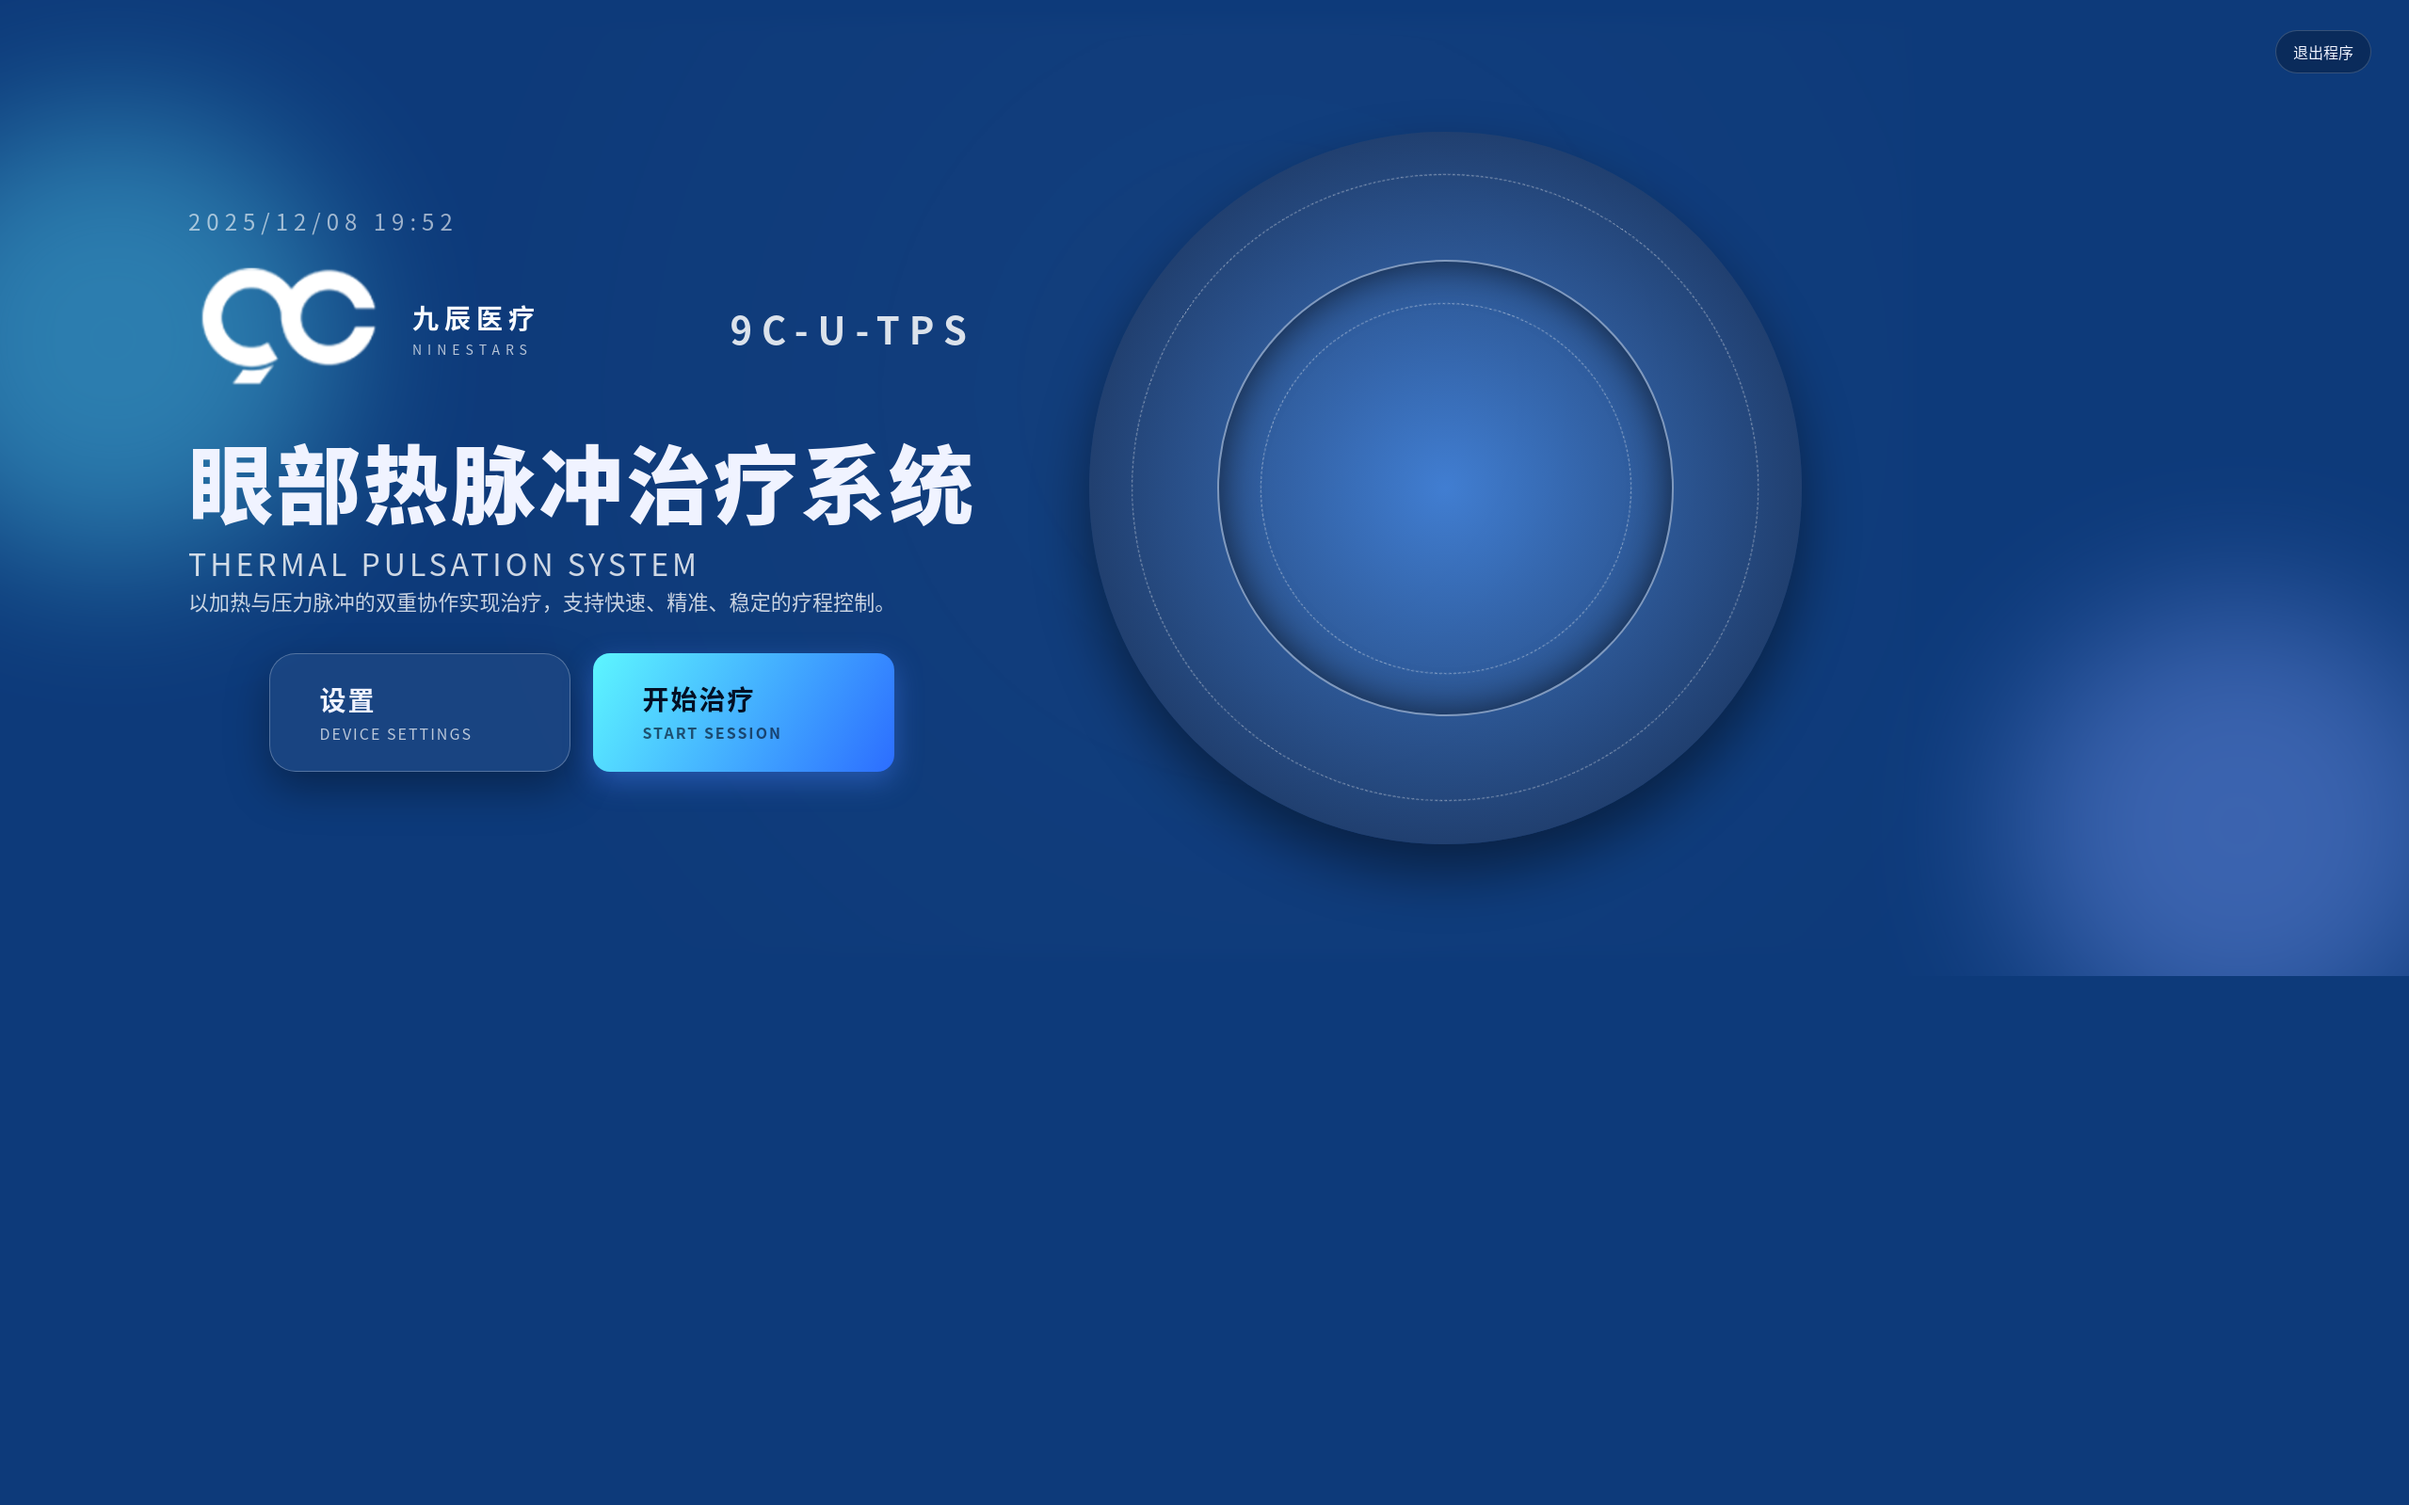
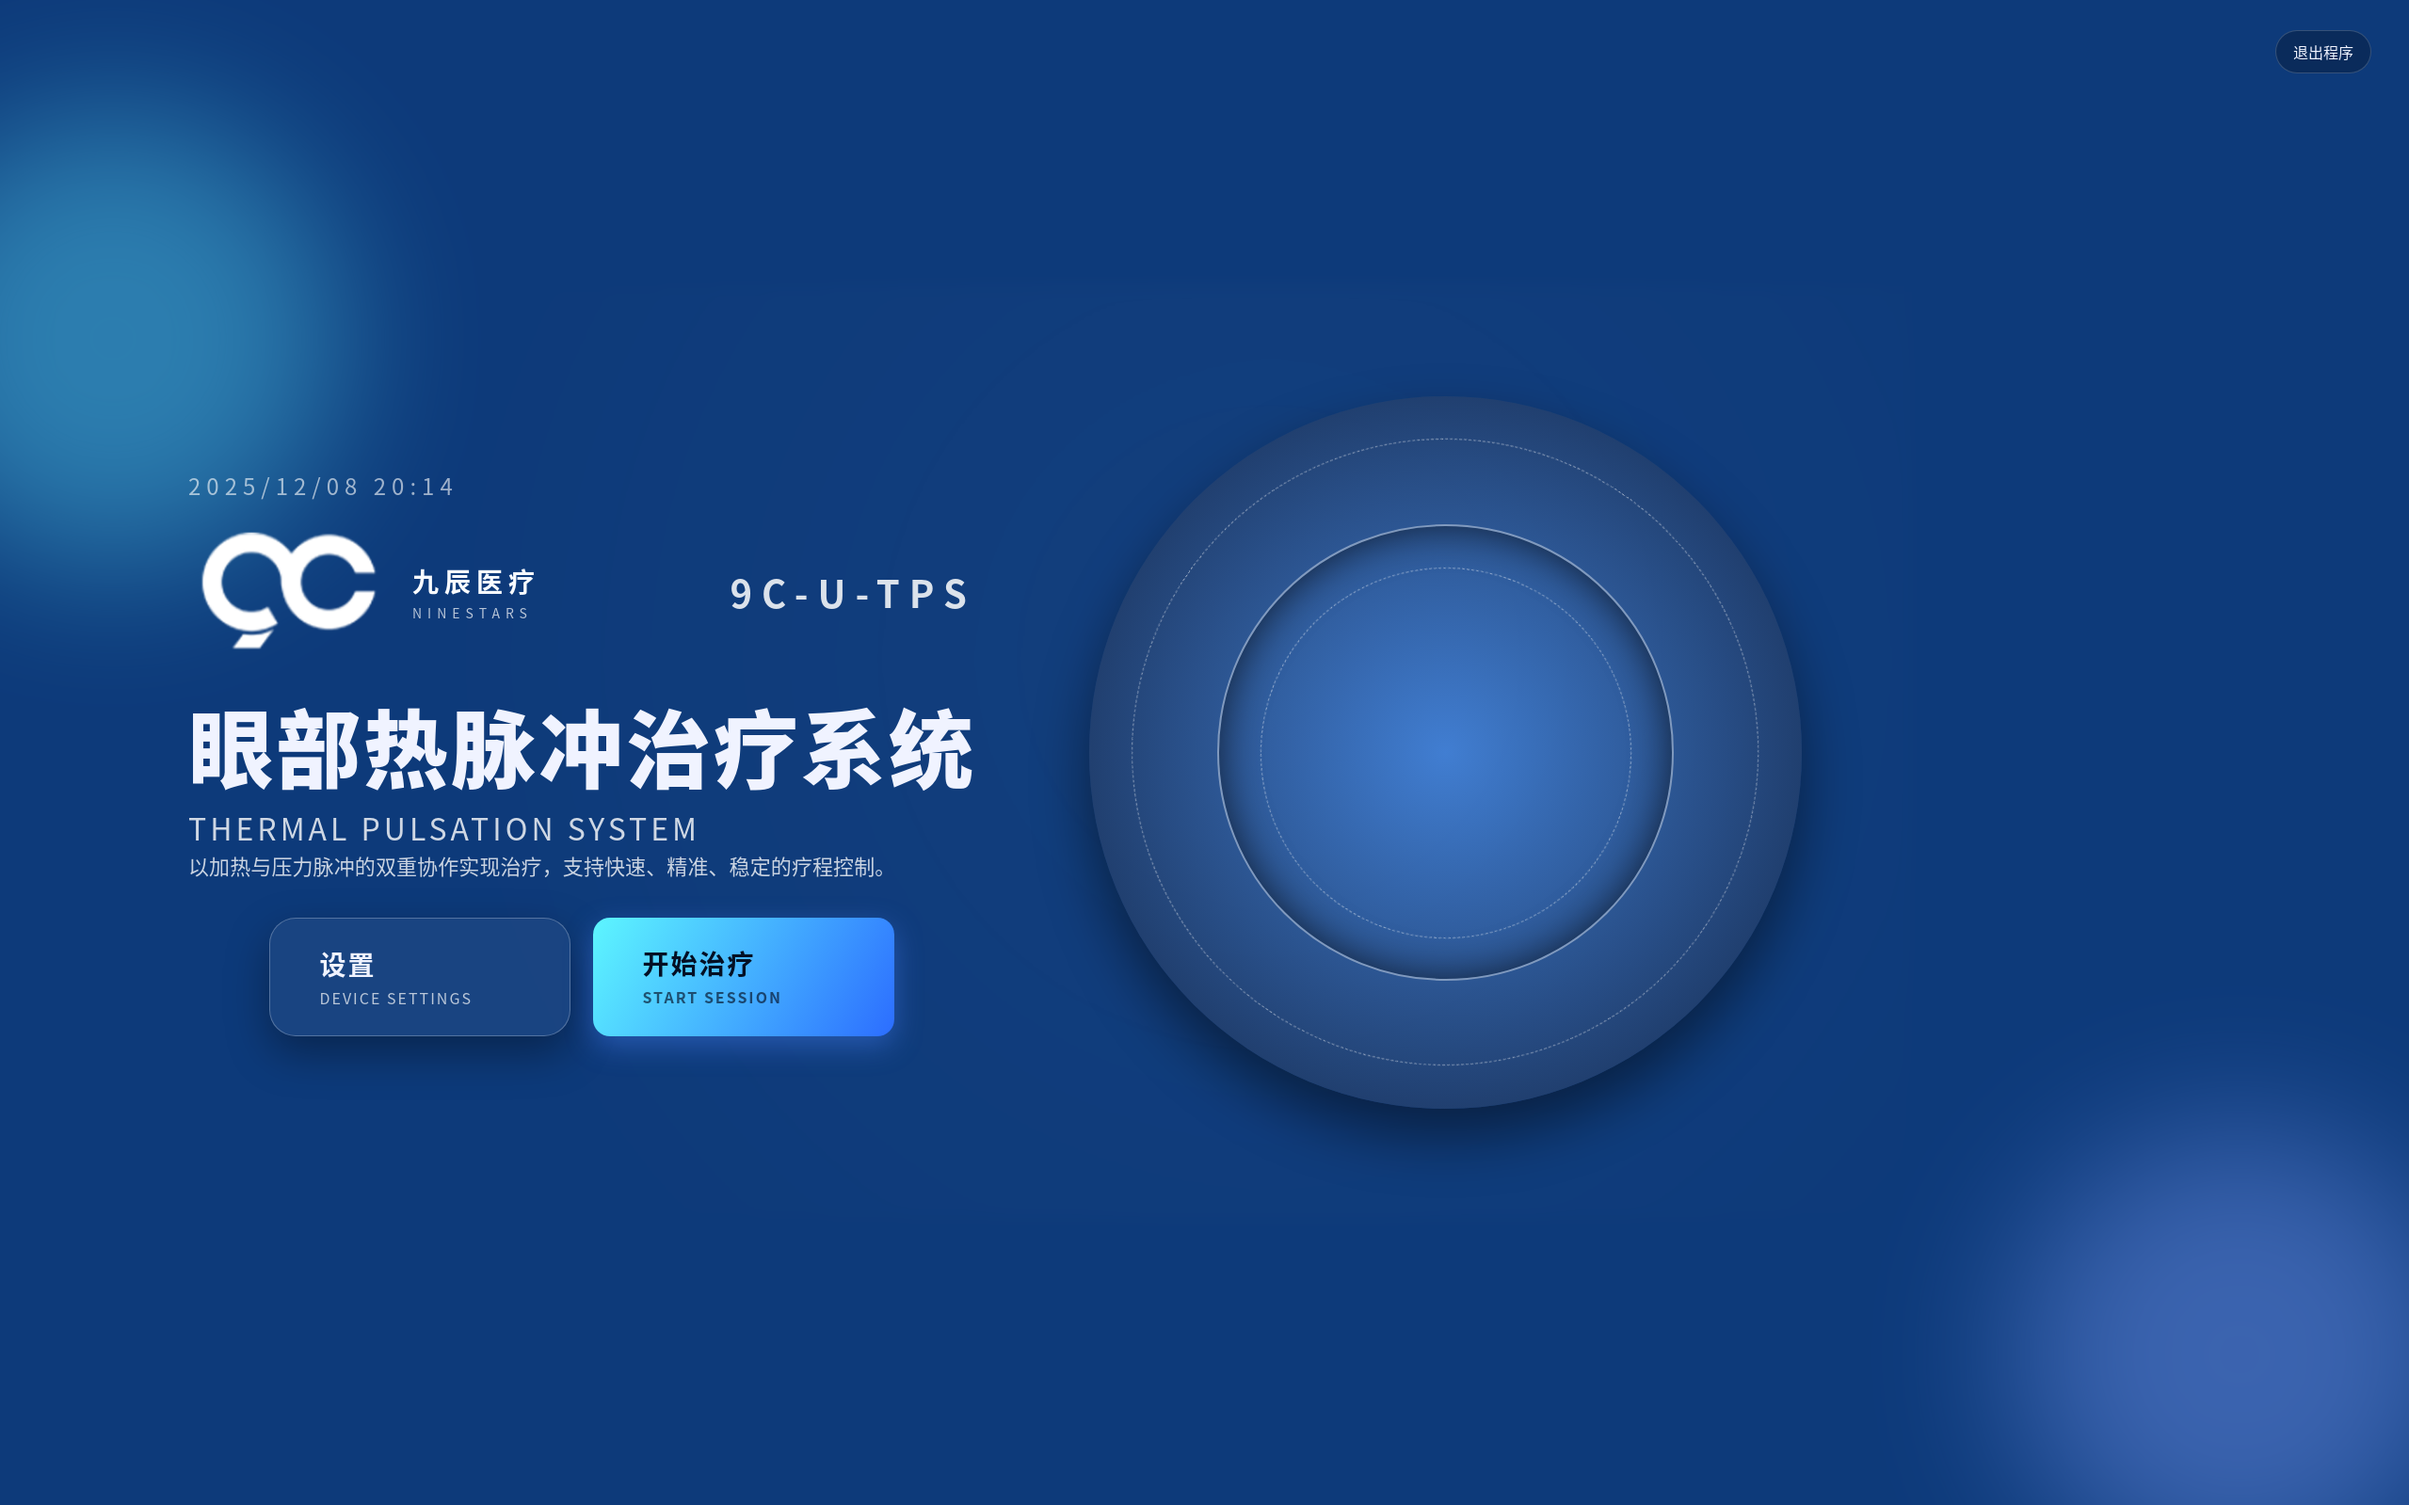
Enhance home screen layout: add minimum height to .home-screen and .hero-backdrop, adjust .hero-grid for full height

diff --git a/renderer/style.css b/renderer/style.css
@@ -55,7 +55,14 @@ body.view-home #quickScreen,
 body.view-settings #quickScreen,
 body.view-home #settingsScreen,
 body.view-quick #settingsScreen { display: none; }
-.home-screen { position: relative; display: flex; align-items: stretch; overflow: hidden; color: var(--fg); }
+.home-screen {
+  position: relative;
+  display: flex;
+  align-items: stretch;
+  overflow: hidden;
+  color: var(--fg);
+  min-height: 100vh;
+}
 .home-screen::before {
   content: '';
   position: absolute;
@@ -68,11 +75,29 @@ body.view-quick #settingsScreen { display: none; }
   z-index: 0;
 }
 .home-screen > * { position: relative; z-index: 1; }
-.hero-backdrop { position: relative; flex: 1; width: 100%; height: 100%; padding: 140px 200px; background: inherit; display: flex; align-items: center; }
+.hero-backdrop {
+  position: relative;
+  flex: 1;
+  width: 100%;
+  height: 100%;
+  min-height: 100vh;
+  padding: 140px 200px;
+  background: inherit;
+  display: flex;
+  align-items: center;
+}
 .hero-glow { position: absolute; width: 480px; height: 480px; border-radius: 50%; opacity: 0.4; filter: blur(80px); }
 .hero-glow-left { background: #5be3ff; left: -120px; top: 120px; }
 .hero-glow-right { background: #80a2ff; right: -60px; bottom: -80px; }
-.hero-grid { position: relative; display: grid; grid-template-columns: minmax(0, 1.05fr) minmax(320px, 0.95fr); gap: 120px; align-items: center; z-index: 1; }
+.hero-grid {
+  position: relative;
+  display: grid;
+  grid-template-columns: minmax(0, 1.05fr) minmax(320px, 0.95fr);
+  gap: 120px;
+  align-items: center;
+  z-index: 1;
+  height: 100%;
+}
 .hero-blade { position: absolute; inset: -120px; background: radial-gradient(circle at 65% 40%, rgba(255,255,255,0.08), transparent 70%); opacity: 0.35; filter: blur(10px); z-index: 0; }
 .hero-content { position: relative; display: flex; flex-direction: column; gap: 28px; z-index: 2; }
 .hero-clock { font-size: 24px; letter-spacing: 6px; text-transform: uppercase; color: rgba(255,255,255,0.6); }
